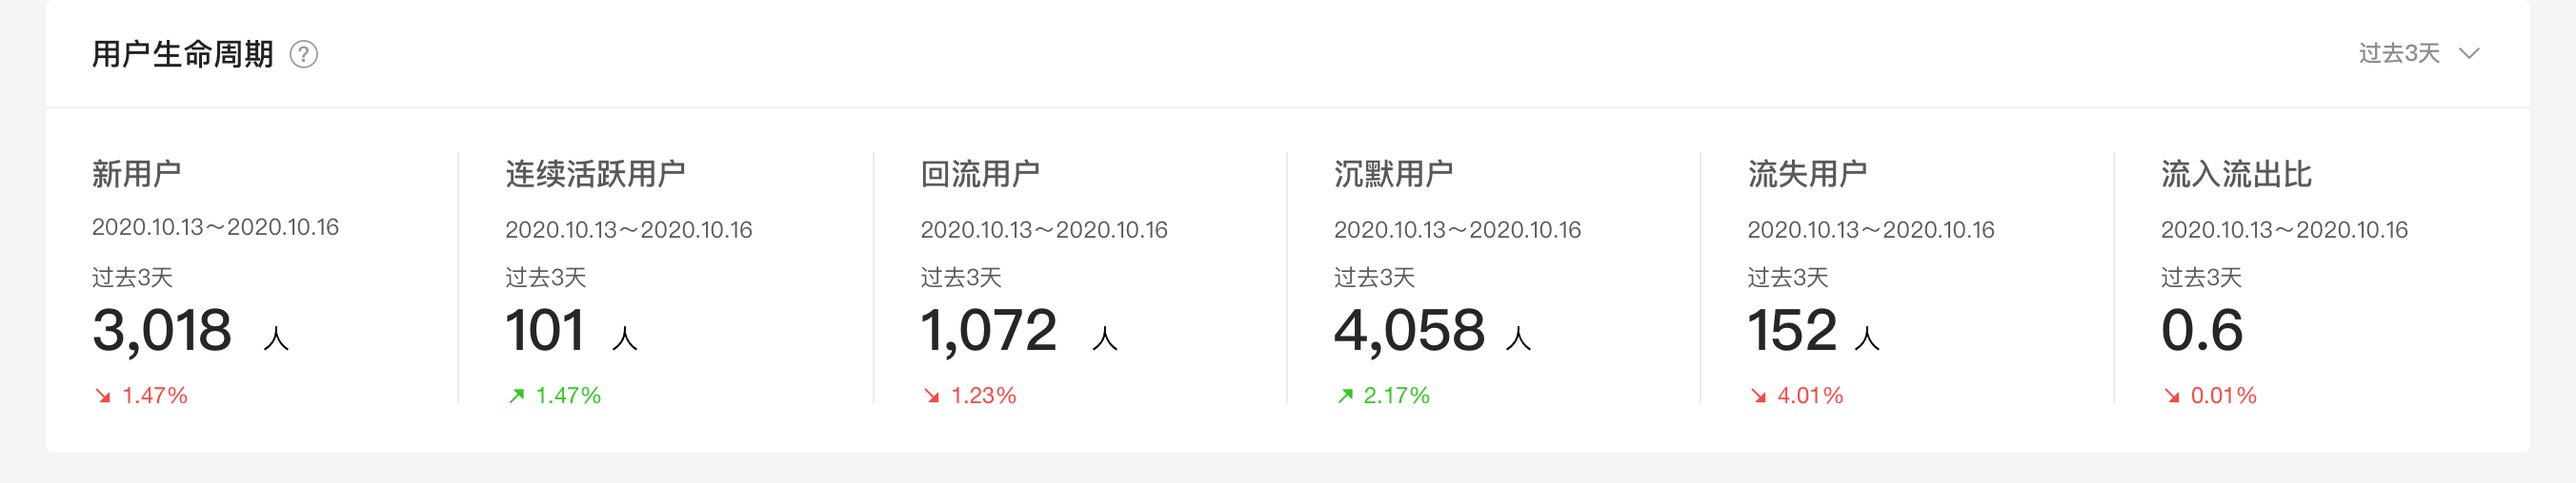
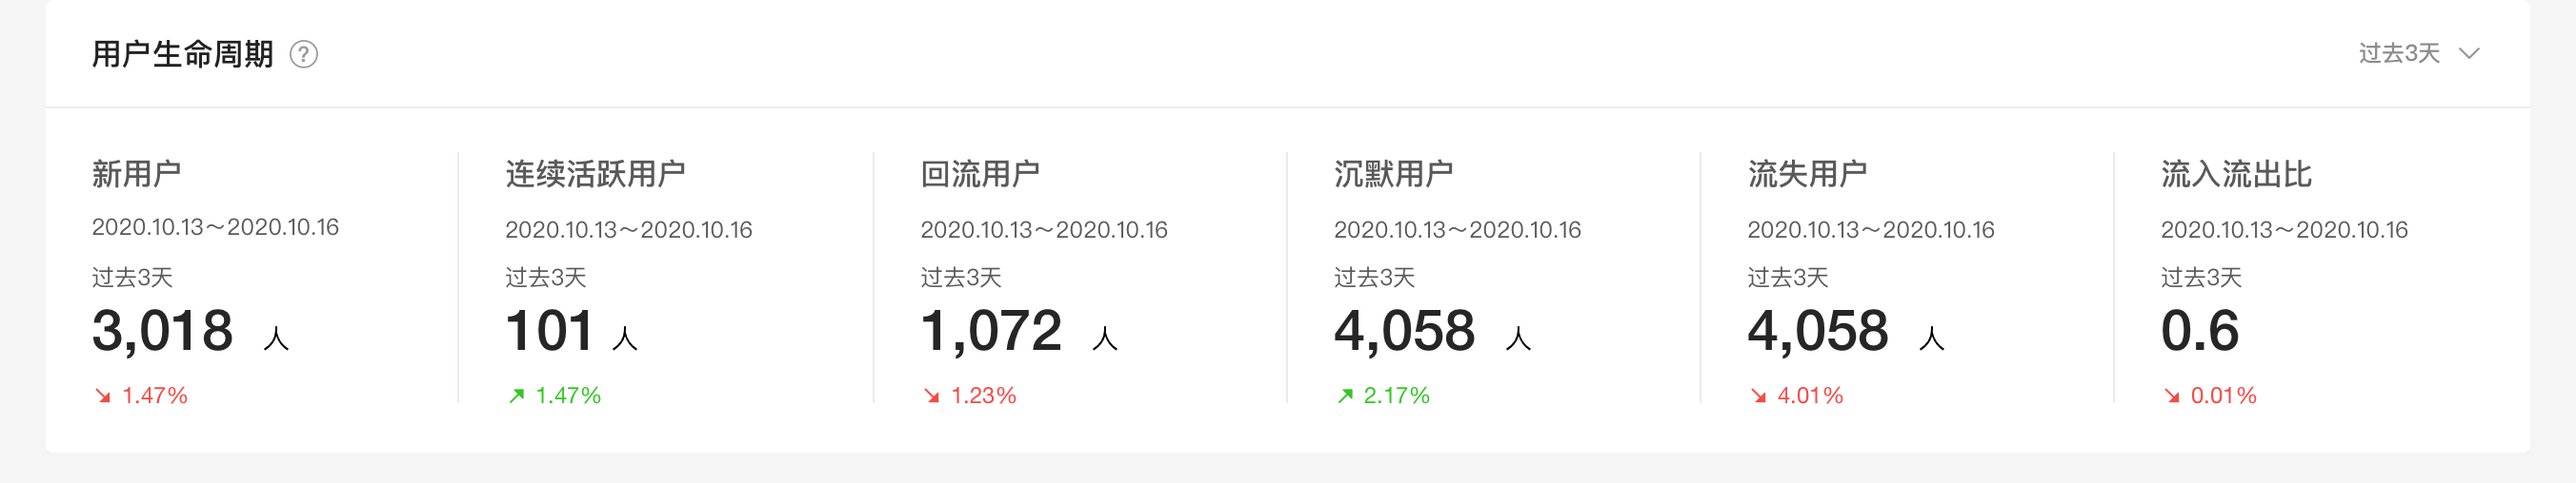
首页，画像修改

diff --git a/public/static/html/zjj/liushiYH.html b/public/static/html/zjj/liushiYH.html
@@ -42,11 +42,11 @@
             num1++;
             var forNum = toThousands(num1);
             var dom = document.getElementById('num');
-            dom.innerHTML = `<span style="color:#333333;font-size: 48vw;">${forNum}</span>`;
+            dom.innerHTML = `<span style="color:#333333;font-size: 32vw;">${forNum}</span>`;
         },900);
         var forNum = toThousands(num1);
         var dom = document.getElementById('num');
-        dom.innerHTML = `<span style="color:#333333;font-size: 48vw;">${forNum}</span>`;
+        dom.innerHTML = `<span style="color:#333333;font-size: 32vw;">${forNum}</span>`;
         window.onunload = function(){
             clearInterval(timer);
         };

diff --git a/src/views/protrait/components/yhhx.vue b/src/views/protrait/components/yhhx.vue
@@ -144,6 +144,8 @@
 
                     .tab-content {
                         position: relative;
+                        display: flex;
+
                         >img {
                             width: 100%;
                         }
@@ -180,7 +182,6 @@
 
                         .player {
                             position: absolute;
-                            // width: 1150px;
                             width: 100%;
                             height: 466px;
                             top: -14px;

diff --git a/src/views/home/index.vue b/src/views/home/index.vue
@@ -173,9 +173,9 @@
                     }
 
                     .iframe10 {
-                        left: 901px;
+                        left: 898px;
                         top: 159px;
-                        width: 63px;
+                        width: 95px;
                     }
 
                     .iframe11 {

diff --git a/src/views/protrait/components/pphx.vue b/src/views/protrait/components/pphx.vue
@@ -152,6 +152,8 @@
                 .bottom {
                     .tab-content {
                         position: relative;
+                        display: flex;
+
                         >img {
                             width: 100%;
                         }

diff --git a/src/views/protrait/components/tdjchx.vue b/src/views/protrait/components/tdjchx.vue
@@ -100,6 +100,7 @@
                 .bottom {
                     .tab-content {
                         position: relative;
+                        display: flex;
 
                         >img {
                             width: 100%;

diff --git a/src/views/protrait/components/kolsx.vue b/src/views/protrait/components/kolsx.vue
@@ -15,6 +15,7 @@
 
         > img {
             width: 100%;
+            padding-bottom: 20px;
         }
     }
 </style>
